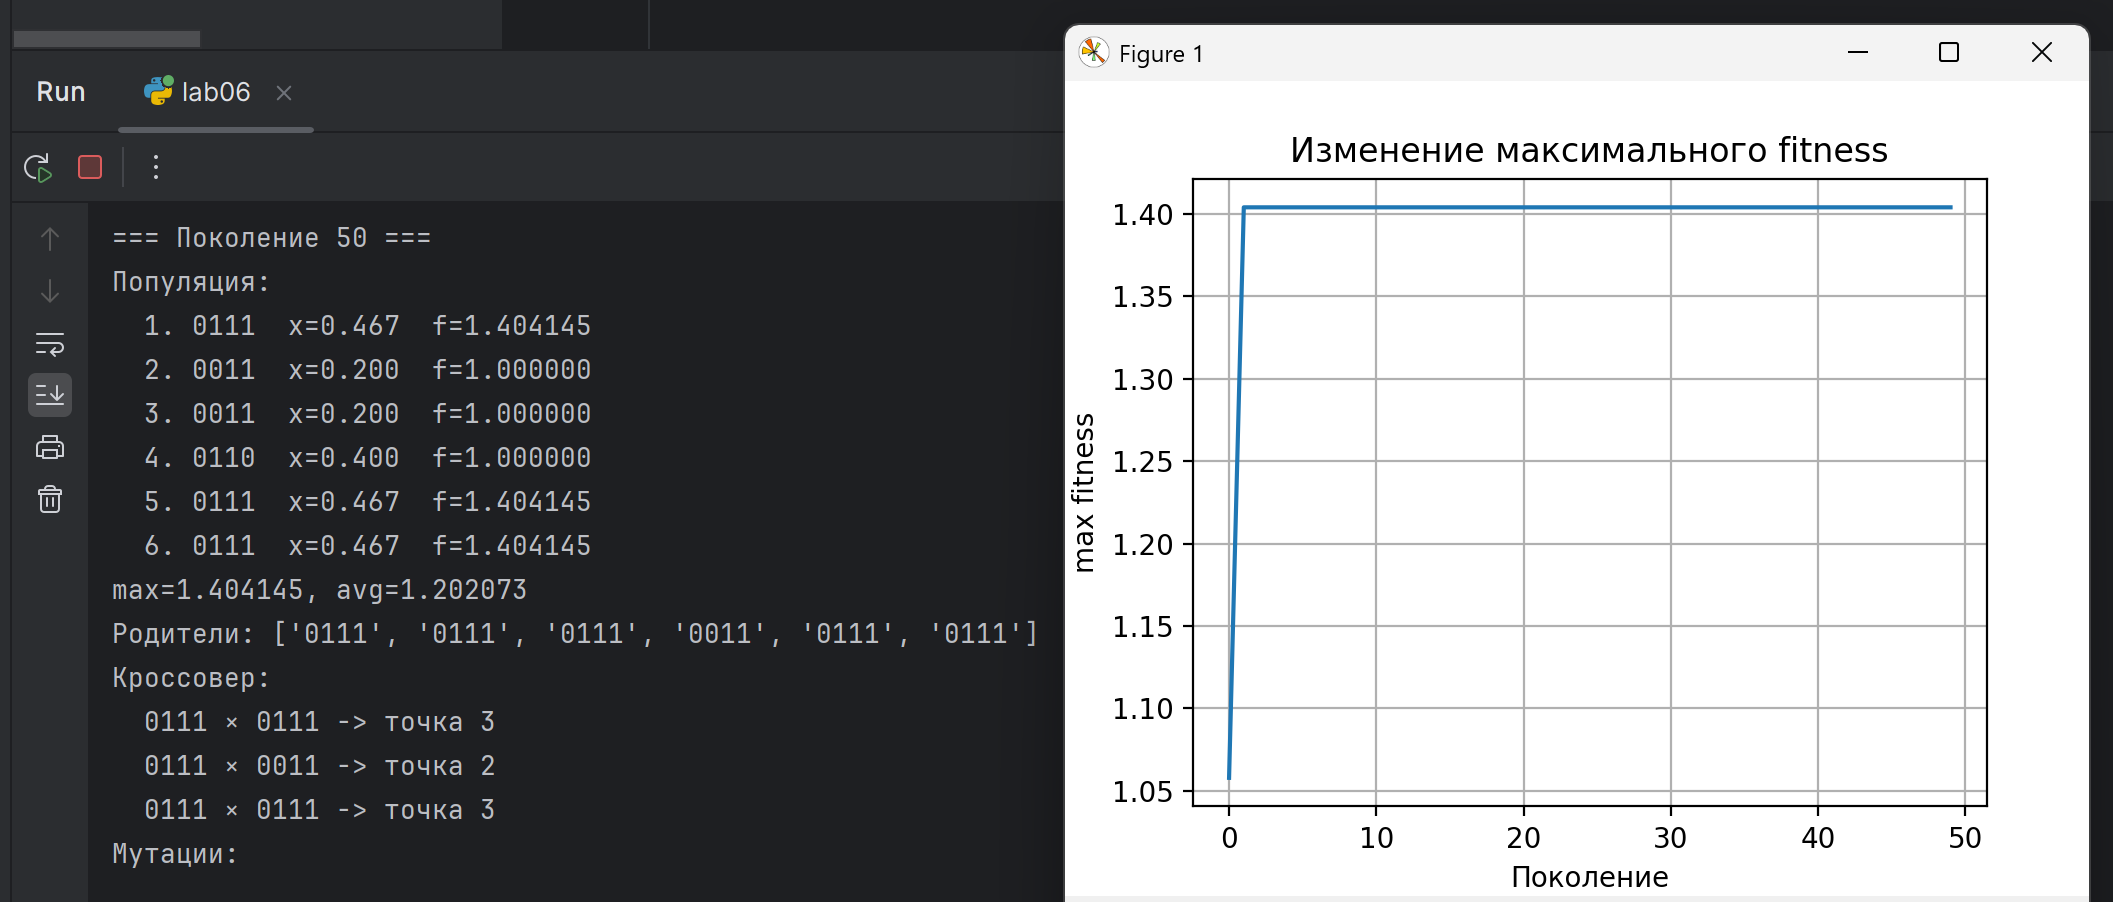
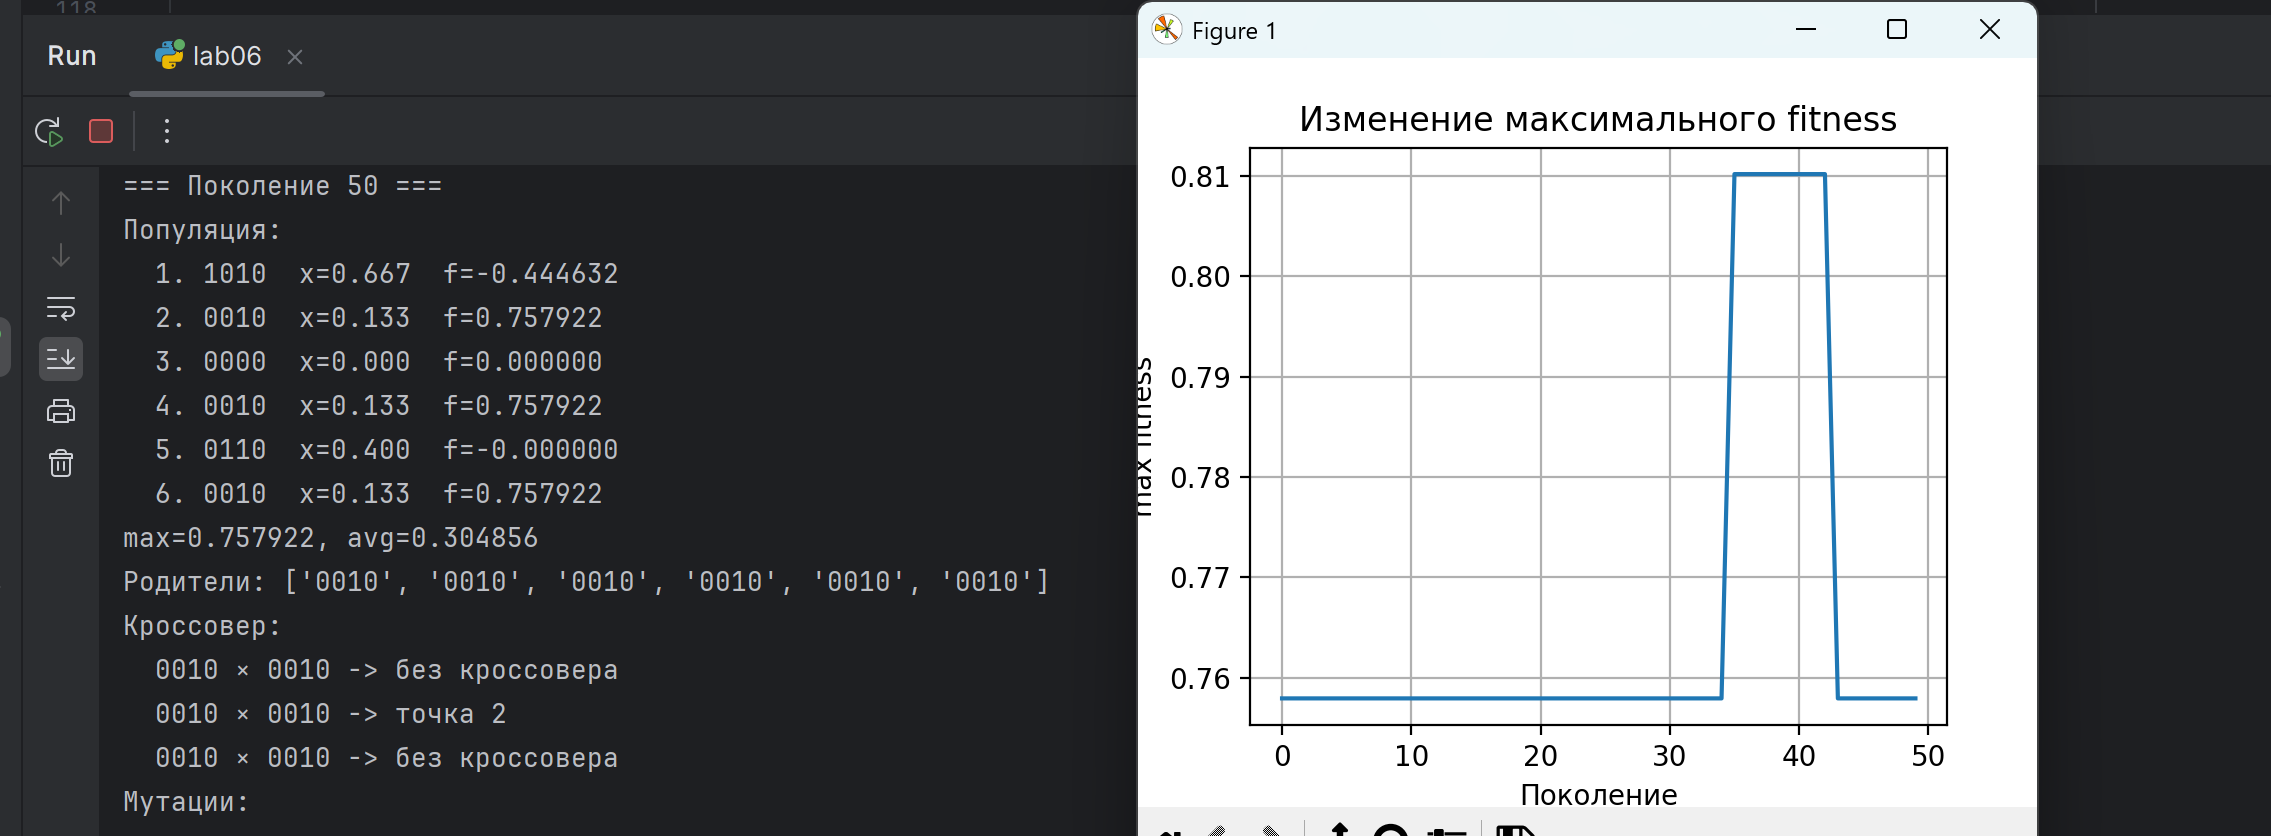
upd readme

Changed region(s): [[0.0, 0.0, 0.9995, 1.0], [0.0, 0.0311, 0.1562, 0.2177]]

diff --git a/lab06/main.py b/lab06/main.py
@@ -3,14 +3,13 @@ import math
 import matplotlib.pyplot as plt
 
 # ----- параметры -----
-L = 4                  
+L = 4
 MAX_INT = 2**L - 1
 
-# Целевая функция (сюда вписать ваш вариант) — пример
-# f(x) = x * sin(10*pi*x) + 1
-import math
+# Целевая функция
 def f(x):
-    return x * math.sin(10 * math.pi * x) + 1
+    return math.exp(-x) * math.sin(5 * math.pi * x)
+
 
 # Кодирование и декодирование (4 бита → число 0..15 → x=[0,1])
 def decode(ch):
@@ -114,5 +113,5 @@ def GA(N=6, pc=0.8, pm=0.05, G=30):
     ch = pop[ix]
     print(f"Лучшее решение: {ch} → x={decode(ch):.4f}, f={best_f:.6f}")
 
-# ---- Пример запуска ----
-GA(N=12, pc=0.8, pm=0.05, G=50)
+# ---- запуск ----
+GA(N=6, pc=0.9, pm=0.01, G=50)

diff --git a/lab06/readme.md b/lab06/readme.md
@@ -144,22 +144,22 @@ f = 0.000000
 Высокий кроссовер, малая мутация (быстрая конвергенция, риск застревания)
 GA(N=6, pc=0.9, pm=0.01, G=50)
 
-![alt text](img/image-1.png)
+![alt text](img/image.png)
 
 Стандартный (базовый) — для сравнения
 GA(N=6, pc=0.8, pm=0.05, G=50)
 
-![alt text](img/image-2.png)
+![alt text](img/image-1.png)
 
 Меньший кроссовер + большая мутация (медленнее, но больше разведки)
 GA(N=6, pc=0.6, pm=0.15, G=50)
 
-![alt text](img/image-3.png)
+![alt text](img/image-2.png)
 
 Влияние размера популяции — тот же pc/pm как в (2) но больше N
 GA(N=12, pc=0.8, pm=0.05, G=50)
 
-![alt text](img/image-4.png)
+![alt text](img/image-3.png)
 
 А В консоли отображается подробный ход работы генетического алгоритма по поколениям. Для каждого поколения выводятся:
 
